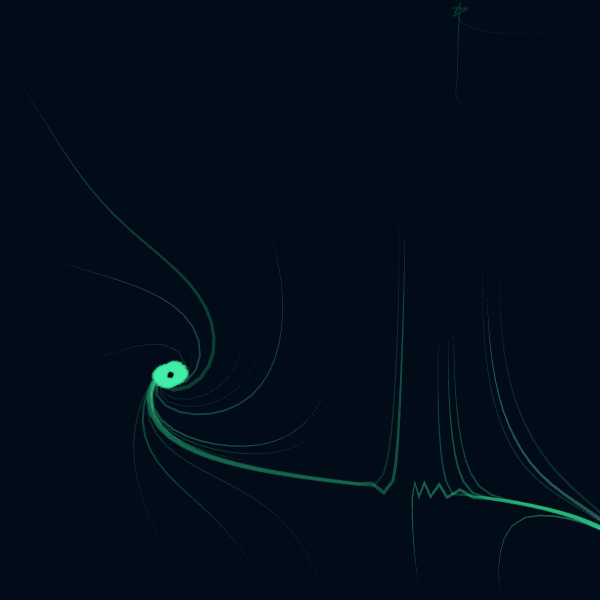
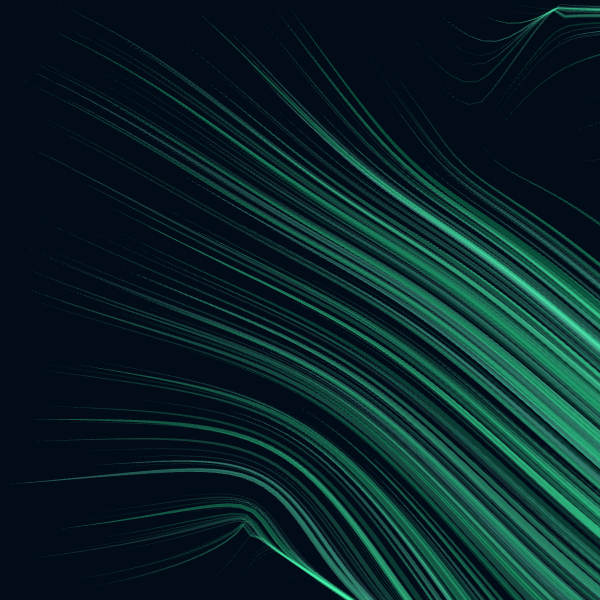
chore: retune flow presets for visual distinctiveness
10x particle counts + flow direction bias per preset:
- flow-smoke: 1200 count, flowAngle 270° (upward), thin wisps
- ink-diffusion: 550 count, pure curl, organic tendrils
- aurora: 300 count, flowAngle 0° (rightward), bold sweeping bands
- lava-flow: 250 count, flowAngle 90° (downward), thick rivers
- water-current: 1100 count, flowAngle 0°, layered wave patterns
- wind-streams: 1600 count, flowAngle 0°, fine swept lines

Regenerate .genart files and PNGs.

diff --git a/src/presets/flow.ts b/src/presets/flow.ts
@@ -7,17 +7,20 @@ export const FLOW_PRESETS: FlowPreset[] = [
     category: "flow",
     description: "Pale grey smoke tendrils curling upward in slow lazy arcs",
     tags: ["smoke", "atmosphere", "grey", "gentle", "indoor"],
-    count: 60,
-    pathSteps: 80,
-    stepSize: 0.018,
-    noiseScale: 1.2,
+    // Many thin wisps drifting upward with curl turbulence
+    count: 1200,
+    pathSteps: 65,
+    stepSize: 0.012,
+    noiseScale: 1.4,
     noiseOctaves: 3,
-    sizeMin: 0.8,
-    sizeMax: 2.5,
+    sizeMin: 0.3,
+    sizeMax: 0.9,
     color: "#C8C8C8",
-    colorVariation: 0.08,
-    opacity: 0.55,
-    swirling: 0.15,
+    colorVariation: 0.1,
+    opacity: 0.4,
+    swirling: 0.22,
+    flowAngle: 270,   // upward (-Y in canvas)
+    flowStrength: 0.42,
     depthDistribution: "uniform",
     depthEasing: "linear",
     horizonY: 0.4,
@@ -28,17 +31,20 @@ export const FLOW_PRESETS: FlowPreset[] = [
     category: "flow",
     description: "Dark ink ribbons spreading and curling through water — abstract fluid motion",
     tags: ["ink", "water", "abstract", "dark", "dramatic"],
-    count: 40,
-    pathSteps: 100,
-    stepSize: 0.022,
-    noiseScale: 1.8,
+    // Pure curl, no bias — smooth organic tendrils spreading like ink in water
+    count: 550,
+    pathSteps: 95,
+    stepSize: 0.016,
+    noiseScale: 1.1,
     noiseOctaves: 4,
-    sizeMin: 1.0,
-    sizeMax: 3.5,
+    sizeMin: 0.7,
+    sizeMax: 2.5,
     color: "#1A1A2E",
-    colorVariation: 0.12,
-    opacity: 0.7,
-    swirling: 0.25,
+    colorVariation: 0.15,
+    opacity: 0.72,
+    swirling: 0.28,
+    flowAngle: 0,
+    flowStrength: 0.0,
     depthDistribution: "uniform",
     depthEasing: "quadratic",
     horizonY: 0.5,
@@ -49,17 +55,20 @@ export const FLOW_PRESETS: FlowPreset[] = [
     category: "flow",
     description: "Luminous green-cyan ribbons flowing in long sweeping bands across a dark sky",
     tags: ["aurora", "night", "green", "magical", "sky"],
-    count: 25,
-    pathSteps: 140,
-    stepSize: 0.025,
-    noiseScale: 0.7,
+    // Broad horizontal sweeping bands with gentle vertical curl
+    count: 300,
+    pathSteps: 150,
+    stepSize: 0.022,
+    noiseScale: 0.5,
     noiseOctaves: 2,
-    sizeMin: 2.0,
-    sizeMax: 6.0,
+    sizeMin: 2.5,
+    sizeMax: 7.0,
     color: "#44FFAA",
-    colorVariation: 0.18,
-    opacity: 0.5,
-    swirling: 0.05,
+    colorVariation: 0.2,
+    opacity: 0.45,
+    swirling: 0.08,
+    flowAngle: 0,     // rightward
+    flowStrength: 0.55,
     depthDistribution: "background-heavy",
     depthEasing: "linear",
     horizonY: 0.2,
@@ -70,17 +79,20 @@ export const FLOW_PRESETS: FlowPreset[] = [
     category: "flow",
     description: "Slow viscous orange-red rivers of molten rock winding across dark ground",
     tags: ["lava", "fire", "orange", "dramatic", "geological"],
-    count: 20,
-    pathSteps: 120,
-    stepSize: 0.015,
-    noiseScale: 0.9,
+    // Thick downward-flowing rivers with low turbulence
+    count: 250,
+    pathSteps: 130,
+    stepSize: 0.014,
+    noiseScale: 0.8,
     noiseOctaves: 3,
-    sizeMin: 3.0,
-    sizeMax: 8.0,
+    sizeMin: 3.5,
+    sizeMax: 9.0,
     color: "#FF4400",
     colorVariation: 0.2,
-    opacity: 0.8,
-    swirling: 0.1,
+    opacity: 0.85,
+    swirling: 0.06,
+    flowAngle: 90,    // downward
+    flowStrength: 0.35,
     depthDistribution: "foreground-heavy",
     depthEasing: "quadratic",
     horizonY: 0.6,
@@ -91,17 +103,20 @@ export const FLOW_PRESETS: FlowPreset[] = [
     category: "flow",
     description: "Blue-white water flow lines tracing the movement of a shallow stream",
     tags: ["water", "river", "blue", "natural", "gentle"],
-    count: 80,
-    pathSteps: 90,
-    stepSize: 0.02,
-    noiseScale: 1.4,
+    // Many thin horizontal streamlines with light turbulence
+    count: 1100,
+    pathSteps: 100,
+    stepSize: 0.019,
+    noiseScale: 0.85,
     noiseOctaves: 3,
-    sizeMin: 0.5,
-    sizeMax: 1.8,
+    sizeMin: 0.3,
+    sizeMax: 1.2,
     color: "#80C8E8",
-    colorVariation: 0.1,
-    opacity: 0.45,
-    swirling: 0.08,
+    colorVariation: 0.12,
+    opacity: 0.5,
+    swirling: 0.05,
+    flowAngle: 0,     // rightward
+    flowStrength: 0.6,
     depthDistribution: "uniform",
     depthEasing: "linear",
     horizonY: 0.4,
@@ -112,17 +127,20 @@ export const FLOW_PRESETS: FlowPreset[] = [
     category: "flow",
     description: "Fine white-grey streamlines visualising wind sweeping across an open landscape",
     tags: ["wind", "air", "white", "subtle", "landscape"],
-    count: 120,
-    pathSteps: 70,
-    stepSize: 0.028,
-    noiseScale: 1.0,
+    // Many very fine lines flowing rightward
+    count: 1600,
+    pathSteps: 80,
+    stepSize: 0.024,
+    noiseScale: 0.9,
     noiseOctaves: 2,
-    sizeMin: 0.4,
-    sizeMax: 1.2,
+    sizeMin: 0.2,
+    sizeMax: 0.7,
     color: "#E8EEF4",
     colorVariation: 0.06,
-    opacity: 0.35,
+    opacity: 0.4,
     swirling: 0.0,
+    flowAngle: 0,     // rightward
+    flowStrength: 0.7,
     depthDistribution: "uniform",
     depthEasing: "linear",
     horizonY: 0.35,
